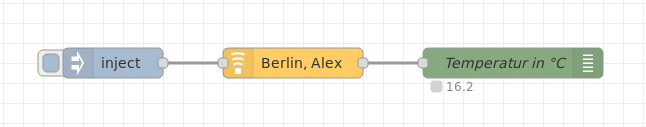
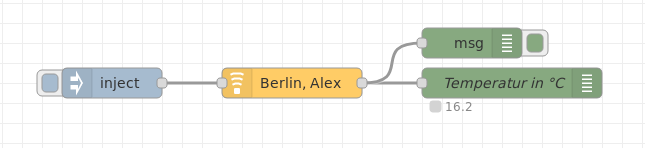
Docu rework finished

Changed region(s): [[0.031, 0.1654, 0.9612, 0.7559]]

diff --git a/readme.md b/readme.md
@@ -129,9 +129,40 @@ The default `msg` attributes are:
 ## Examples
 
 ### Basic example
+This example shows how to trigger the node and how to evaluate the `msg.payload.tempc` element.
+
+![basic-example](images/basic-example.png "Basic example")  
+**Fig. 5:** Basic example flow
+
+<details>
+  <summary>Click to expand code snippet of the flow</summary>
+
+```javascript
+[{"id":"c9a4786f.ee8328","type":"inject","z":"c1f84551.fa0b5","name":"","props":[{"p":"payload"}],"repeat":"","crontab":"","once":false,"onceDelay":0.1,"topic":"","payload":"","payloadType":"str","x":210,"y":1320,"wires":[["63c7e662.9ec0c8"]]},{"id":"63c7e662.9ec0c8","type":"dwdweather","z":"c1f84551.fa0b5","name":"Berlin, Alex","mosmixStation":"10389","lookAheadHours":"0","additionalFields":"","repeat":"0","x":390,"y":1320,"wires":[["52b1bc57.f3fe74","7a6b8898.d8d578"]]},{"id":"52b1bc57.f3fe74","type":"debug","z":"c1f84551.fa0b5","name":"Temperatur in °C","active":true,"tosidebar":false,"console":false,"tostatus":true,"complete":"payload.tempc","targetType":"msg","statusVal":"payload.windspeed","statusType":"auto","x":610,"y":1320,"wires":[]},{"id":"7a6b8898.d8d578","type":"debug","z":"c1f84551.fa0b5","name":"","active":true,"tosidebar":true,"console":false,"tostatus":false,"complete":"true","targetType":"full","statusVal":"","statusType":"auto","x":570,"y":1280,"wires":[]}]
+```
+</details>
 
 
 ### Example using *Additional fields*
+
+
+The configuration of the property *Additional fields* was set to "FX1,SunD1,VV". Therefore the elements `msg.payload.FX1` (max. wind gust in the lasts hour), `msg.payload.SunD1` (sunshine duration in the last hour) and `msg.payload.VV` (visibility) appear additionally at the output.  
+
+![additionalfields-example](images/additionalfields-example.png "Additional fields example")  
+**Fig. 6:** Example with *Additional fields* flow
+
+<details>
+  <summary>Click to expand code snippet of the flow</summary>
+
+```javascript
+[{"id":"6b9dad75.8e1cfc","type":"dwdweather","z":"c1f84551.fa0b5","name":"Berlin, Alex","mosmixStation":"10389","lookAheadHours":"0","additionalFields":"FX1,SunD1,VV","repeat":"0","x":390,"y":1680,"wires":[["98ed4e40.07d5","e5ef0089.cf48","69ba80bb.54cfc","36980239.12325e","b21cfb33.0eb55","47c88c29.1cea44","5a984276.9804c4"]]},{"id":"9e5e1177.58e82","type":"inject","z":"c1f84551.fa0b5","name":"","props":[{"p":"payload"}],"repeat":"","crontab":"","once":false,"onceDelay":0.1,"topic":"","payload":"","payloadType":"str","x":190,"y":1680,"wires":[["6b9dad75.8e1cfc"]]},{"id":"98ed4e40.07d5","type":"debug","z":"c1f84551.fa0b5","name":"windspeed in m/s","active":true,"tosidebar":false,"console":false,"tostatus":true,"complete":"payload.windspeed","targetType":"msg","statusVal":"payload.windspeed","statusType":"auto","x":730,"y":1800,"wires":[]},{"id":"e5ef0089.cf48","type":"debug","z":"c1f84551.fa0b5","name":"wind direction in °","active":true,"tosidebar":false,"console":false,"tostatus":true,"complete":"payload.winddirection","targetType":"msg","statusVal":"payload.windspeed","statusType":"auto","x":740,"y":1860,"wires":[]},{"id":"69ba80bb.54cfc","type":"debug","z":"c1f84551.fa0b5","name":"max. wind gust last hour","active":true,"tosidebar":false,"console":false,"tostatus":true,"complete":"payload.FX1","targetType":"msg","statusVal":"payload.windspeed","statusType":"auto","x":760,"y":1920,"wires":[]},{"id":"47c88c29.1cea44","type":"debug","z":"c1f84551.fa0b5","name":"sunshine duration last hour in seconds","active":true,"tosidebar":false,"console":false,"tostatus":true,"complete":"payload.SunD1","targetType":"msg","statusVal":"payload.windspeed","statusType":"auto","x":810,"y":1980,"wires":[]},{"id":"b21cfb33.0eb55","type":"debug","z":"c1f84551.fa0b5","name":"rel. humidity in %","active":true,"tosidebar":false,"console":false,"tostatus":true,"complete":"payload.humidity","targetType":"msg","statusVal":"payload.windspeed","statusType":"auto","x":730,"y":1740,"wires":[]},{"id":"36980239.12325e","type":"debug","z":"c1f84551.fa0b5","name":"temperature in °C","active":true,"tosidebar":false,"console":false,"tostatus":true,"complete":"payload.tempc","targetType":"msg","statusVal":"payload.windspeed","statusType":"auto","x":740,"y":1680,"wires":[]},{"id":"5a984276.9804c4","type":"debug","z":"c1f84551.fa0b5","name":"visibility in m","active":true,"tosidebar":false,"console":false,"tostatus":true,"complete":"payload.VV","targetType":"msg","statusVal":"payload.windspeed","statusType":"auto","x":720,"y":2040,"wires":[]}]
+```
+</details>
+<br>
+
+Note that often the values have to be scaled to have more 'handy' values.
+
+
 
 ## License
 
